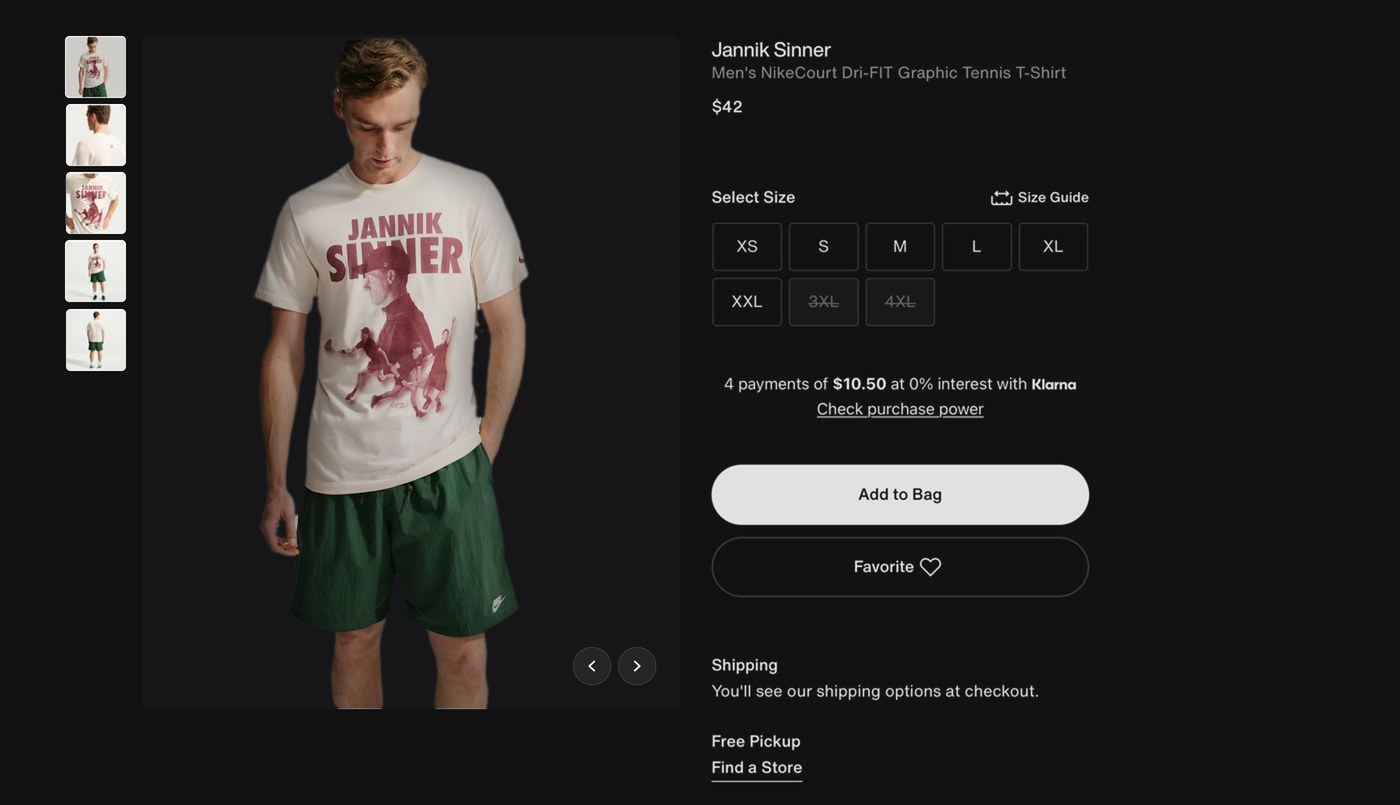
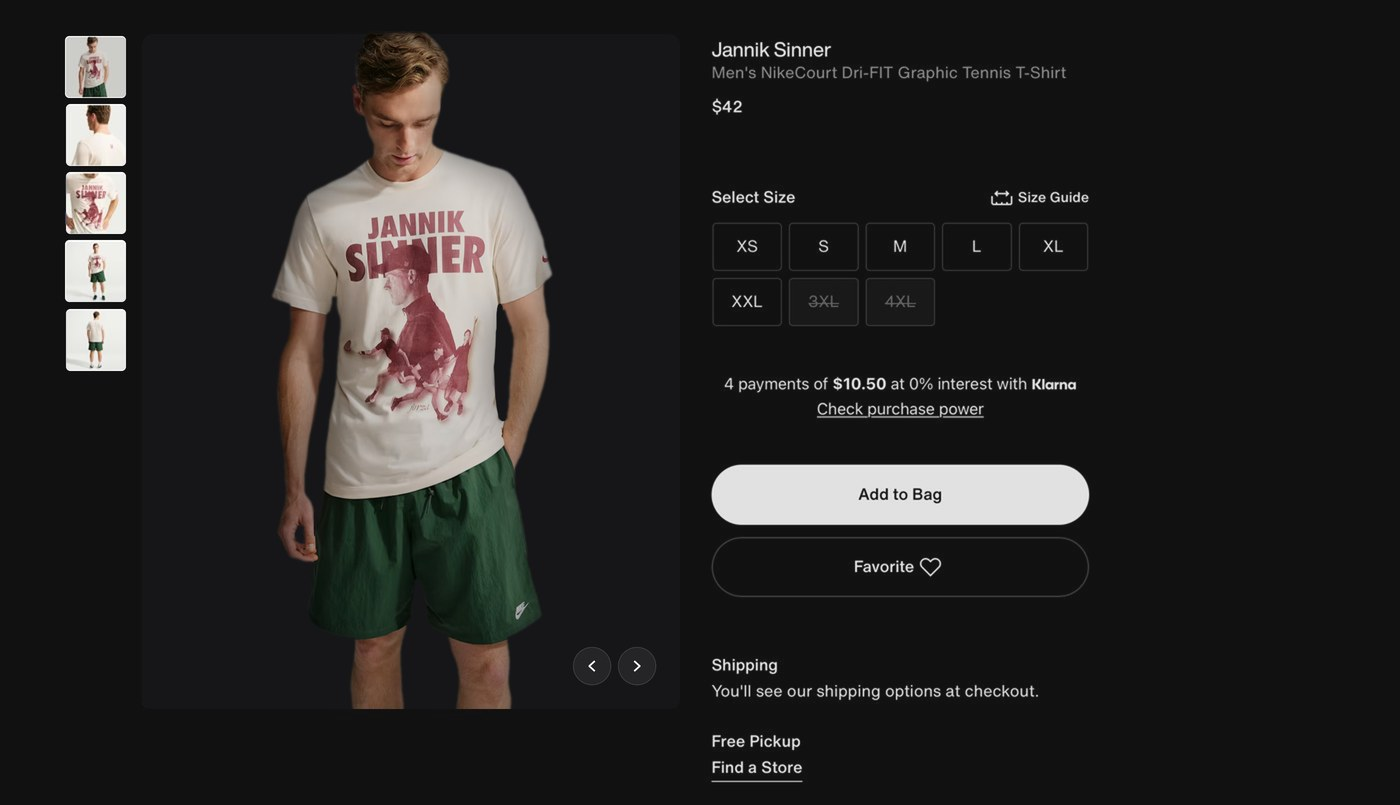
AI page: dark Nike product page from Christian's edited PhotoCraft file

Changed region(s): [[0.1843, 0.0311, 0.3993, 0.9006]]

diff --git a/ai/index.html b/ai/index.html
@@ -191,7 +191,7 @@
 </div></div></div><p class="ai-note ai-live">The Korean version, after a Champion Advocate&#x27;s fix went back to the agent. This is a copy of the Champions Hub, rebuilt from a screen recording, and the post is a made-up example.</p><nav class="hb-chapters" aria-label="Skip to a part of the demo"><button type="button" style="--p:0"><span class="hb-fill"></span><span class="hb-ch-t">Share a Post</span></button><button type="button" style="--p:0"><span class="hb-fill"></span><span class="hb-ch-t">Localize</span></button><button type="button" style="--p:0"><span class="hb-fill"></span><span class="hb-ch-t">Champion Fix</span></button><button type="button" style="--p:0"><span class="hb-fill"></span><span class="hb-ch-t">Send to LinkedIn</span></button><button type="button" style="--p:0"><span class="hb-fill"></span><span class="hb-ch-t">Whole Feed</span></button></nav><button class="ai-btn ai-toggle" type="button" aria-label="Pause animation"><svg viewBox="0 0 24 24" aria-hidden="true"><path class="i-pause" d="M9 6v12M15 6v12"/><path class="i-play" d="M8 5.5v13l11-6.5z"/></svg></button></div></figure>
 <section class="wrap prose ai-sec" id="geo"><p class="ai-step">5 · Optimize</p><h2>Written for Search Engines and AI Answers</h2>
 <p>People type keywords into Google and sometimes ask their AI full questions. GEO and AEO, generative and answer engine optimization, mean writing pages that work for both.</p>
-<p>In 2024, I organized QAD Redzone&#x27;s FAQs and blogs so search engines and AI answers could find them. At Nike I wrote alt text and product tags for both kinds of search: for someone who knows exactly what they want, and for someone who only knows roughly.</p></section><figure class="wrap ai-demo ai-geo" data-demo="geo" aria-label="Illustration: a Nike product and a QAD Redzone FAQ, each found by a keyword search and by an AI answer"><script type="application/json" class="ai-data">{"cases": [{"id": "nike", "label": "Nike", "source": "Nike.com product page: what both of them read", "cite": "From the product page", "search": "jannik sinner nike shirt", "ask": "What should I wear to play tennis on a hot day?", "thumbs": ["assets/ai/nike-thumb-1.jpg", "assets/ai/nike-thumb-2.jpg", "assets/ai/nike-thumb-3.jpg"], "results": ["Jannik Sinner Men's NikeCourt Dri-FIT Graphic Tennis T-Shirt", "NikeCourt Men's Dri-FIT Tennis Tops", "Men's Tennis Clothing"], "answer": "For heat, pick a light top that pulls sweat away from your skin. The Jannik Sinner Men's NikeCourt Dri-FIT Graphic Tennis T-Shirt is made for that.", "fields": [["Alt text", "Man wearing the Jannik Sinner NikeCourt Dri-FIT graphic tennis T-shirt in cream with a red print, front view, with green shorts"], ["Product tags", "tennis, men's, Dri-FIT, graphic tee, NikeCourt, Jannik Sinner, cream"], ["Written for", "Someone who knows the shirt, and someone who only roughly knows what they need"]], "page": "assets/ai/nike-pdp.jpg", "page_alt": "The Nike.com product page for the Jannik Sinner Men's NikeCourt Dri-FIT Graphic Tennis T-Shirt", "page_dark": "assets/ai/nike-pdp-dark.jpg"}, {"id": "redzone", "label": "QAD Redzone", "source": "QAD Redzone FAQ and blog: what both of them read", "cite": "From the FAQ", "platform": "Semrush, where I tracked it at QAD Redzone. The numbers are hidden.", "search": "OEE software manufacturing", "ask": "What is OEE, and how do frontline teams improve it?", "thumbs": ["guide", "team", "dash"], "results": ["What Is OEE? A Guide for Manufacturers", "How Frontline Teams Improve OEE", "QAD Redzone Production System"], "answer": "OEE, overall equipment effectiveness, is how much of a line's planned time is truly productive. Frontline teams improve it by tracking losses as they happen and fixing them shift by shift.", "fields": [["FAQ", "The question as the heading, a short answer first, then the detail"], ["Blog", "One question per post, answered in the first lines"], ["Written for", "Someone searching a keyword, and someone asking an AI a full question"]]}], "step": "5 · Optimize"}</script><div class="ai-stage"><div class="hb-views geo-switch" role="group" aria-label="Which example"><button type="button" data-case="0" aria-pressed="true">Nike</button><button type="button" data-case="1" aria-pressed="false">QAD Redzone</button></div><div class="geo-case geo-nike" data-case="0"><div class="geo-grid"><p class="geo-k">Keywords</p><p class="geo-k">A question</p><div class="ai-window geo-pane"><div class="ai-bar" aria-hidden="true"><span class="ai-dots"><i></i><i></i><i></i></span><span class="ai-title">Search engine</span></div><div class="geo-in geo-search"><svg viewBox="0 0 24 24" aria-hidden="true"><circle cx="10.5" cy="10.5" r="6"/><path d="M15 15l5 5"/></svg><span class="geo-typed" data-text="jannik sinner nike shirt">jannik sinner nike shirt</span></div><ul class="geo-results"><li><span class="geo-thumb" aria-hidden="true"><img src="../assets/ai/nike-thumb-1.jpg?v=4a2936bc" alt="" loading="lazy"></span>Jannik Sinner Men&#x27;s NikeCourt Dri-FIT Graphic Tennis T-Shirt</li><li><span class="geo-thumb" aria-hidden="true"><img src="../assets/ai/nike-thumb-2.jpg?v=48887214" alt="" loading="lazy"></span>NikeCourt Men&#x27;s Dri-FIT Tennis Tops</li><li><span class="geo-thumb" aria-hidden="true"><img src="../assets/ai/nike-thumb-3.jpg?v=e3c73d07" alt="" loading="lazy"></span>Men&#x27;s Tennis Clothing</li></ul></div><div class="ai-window geo-pane"><div class="ai-bar" aria-hidden="true"><span class="ai-dots"><i></i><i></i><i></i></span><span class="ai-title">AI assistant</span></div><div class="geo-in geo-ask"><span class="geo-typed" data-text="What should I wear to play tennis on a hot day?">What should I wear to play tennis on a hot day?</span></div><p class="geo-answer"><svg class="ai-spark" viewBox="0 0 24 24" aria-hidden="true"><path d="M12 3c.6 4.2 2.8 6.4 7 7-4.2.6-6.4 2.8-7 7-.6-4.2-2.8-6.4-7-7 4.2-.6 6.4-2.8 7-7Z"/></svg><span>For heat, pick a light top that pulls sweat away from your skin. The Jannik Sinner Men&#x27;s NikeCourt Dri-FIT Graphic Tennis T-Shirt is made for that.</span></p><p class="geo-cite">From the product page</p></div></div><div class="geo-src"><div class="ai-window"><div class="ai-bar" aria-hidden="true"><span class="ai-dots"><i></i><i></i><i></i></span><span class="ai-title">Nike.com product page: what both of them read</span></div><img class="geo-page" src="../assets/ai/nike-pdp.jpg?v=5dee6cad" alt="The Nike.com product page for the Jannik Sinner Men&#x27;s NikeCourt Dri-FIT Graphic Tennis T-Shirt" loading="lazy"><img class="geo-page geo-page-dark" src="../assets/ai/nike-pdp-dark.jpg?v=49414dcf" alt="The Nike.com product page for the Jannik Sinner Men&#x27;s NikeCourt Dri-FIT Graphic Tennis T-Shirt" loading="lazy"><ul class="geo-fields"><li><span class="ai-label">Alt text</span><span>Man wearing the Jannik Sinner NikeCourt Dri-FIT graphic tennis T-shirt in cream with a red print, front view, with green shorts</span></li><li><span class="ai-label">Product tags</span><span>tennis, men&#x27;s, Dri-FIT, graphic tee, NikeCourt, Jannik Sinner, cream</span></li><li><span class="ai-label">Written for</span><span>Someone who knows the shirt, and someone who only roughly knows what they need</span></li></ul></div></div></div><div class="geo-case geo-redzone" data-case="1" hidden><div class="geo-grid"><p class="geo-k">Keywords</p><p class="geo-k">A question</p><div class="ai-window geo-pane"><div class="ai-bar" aria-hidden="true"><span class="ai-dots"><i></i><i></i><i></i></span><span class="ai-title">Search engine</span></div><div class="geo-in geo-search"><svg viewBox="0 0 24 24" aria-hidden="true"><circle cx="10.5" cy="10.5" r="6"/><path d="M15 15l5 5"/></svg><span class="geo-typed" data-text="OEE software manufacturing">OEE software manufacturing</span></div><ul class="geo-results"><li><span class="geo-thumb" aria-hidden="true"><svg viewBox="0 0 24 24"><rect class="gt-fill" x="5.5" y="3" width="13" height="18" rx="2"/><path class="gt-line" d="M8.5 8h7M8.5 11.5h7M8.5 15h4.5"/></svg></span>What Is OEE? A Guide for Manufacturers</li><li><span class="geo-thumb" aria-hidden="true"><svg viewBox="0 0 24 24"><circle class="gt-fill" cx="8.5" cy="9" r="3"/><circle class="gt-fill" cx="15.8" cy="9.5" r="2.5"/><path class="gt-fill" d="M3 19c.4-3.2 2.7-5.3 5.5-5.3s5.1 2.1 5.5 5.3zM13.6 14.3c.7-.4 1.4-.6 2.2-.6 2.4 0 4.3 1.8 4.7 4.6h-5.4c-.2-1.6-.7-2.9-1.5-4z"/></svg></span>How Frontline Teams Improve OEE</li><li><span class="geo-thumb" aria-hidden="true"><svg viewBox="0 0 24 24"><rect class="gt-fill" x="3" y="4.5" width="18" height="15" rx="2.5"/><path class="gt-line" d="M6.5 15.5l3.2-3.6 2.8 2.2 4.8-5.6"/><path class="gt-line" d="M6.5 8h3"/></svg></span>QAD Redzone Production System</li></ul></div><div class="ai-window geo-pane"><div class="ai-bar" aria-hidden="true"><span class="ai-dots"><i></i><i></i><i></i></span><span class="ai-title">AI assistant</span></div><div class="geo-in geo-ask"><span class="geo-typed" data-text="What is OEE, and how do frontline teams improve it?">What is OEE, and how do frontline teams improve it?</span></div><p class="geo-answer"><svg class="ai-spark" viewBox="0 0 24 24" aria-hidden="true"><path d="M12 3c.6 4.2 2.8 6.4 7 7-4.2.6-6.4 2.8-7 7-.6-4.2-2.8-6.4-7-7 4.2-.6 6.4-2.8 7-7Z"/></svg><span>OEE, overall equipment effectiveness, is how much of a line&#x27;s planned time is truly productive. Frontline teams improve it by tracking losses as they happen and fixing them shift by shift.</span></p><p class="geo-cite">From the FAQ</p></div></div><div class="geo-src"><div class="ai-window"><div class="ai-bar" aria-hidden="true"><span class="ai-dots"><i></i><i></i><i></i></span><span class="ai-title">QAD Redzone FAQ and blog: what both of them read</span></div><ul class="geo-fields"><li><span class="ai-label">FAQ</span><span>The question as the heading, a short answer first, then the detail</span></li><li><span class="ai-label">Blog</span><span>One question per post, answered in the first lines</span></li><li><span class="ai-label">Written for</span><span>Someone searching a keyword, and someone asking an AI a full question</span></li></ul></div></div><div class="geo-sr"><div class="ai-window sr-window"><div class="ai-bar" aria-hidden="true"><span class="ai-dots"><i></i><i></i><i></i></span><span class="ai-title">Semrush  ·  SEO Dashboard: QAD Redzone</span></div><div class="sr-grid"><section class="sr-box"><p class="sr-tab sr-tab-ai">AI Search</p><div class="sr-tot"><p><span>AI Visibility</span><span class="sr-gauge"></span><b class="sr-v" aria-hidden="true"></b></p><p><span>Mentions</span><b class="sr-v" aria-hidden="true"></b></p><p><span>Cited pages</span><b class="sr-v" aria-hidden="true"></b></p></div><ul class="sr-ai"><li><span class="sr-src sr-g"></span>AI Overview<b class="sr-v" aria-hidden="true"></b><b class="sr-v" aria-hidden="true"></b></li><li><span class="sr-src sr-g"></span>AI Mode<b class="sr-v" aria-hidden="true"></b><b class="sr-v" aria-hidden="true"></b></li><li><span class="sr-src sr-gpt"></span>ChatGPT<b class="sr-v" aria-hidden="true"></b><b class="sr-v" aria-hidden="true"></b></li><li><span class="sr-src sr-gem"></span>Gemini<i class="sr-soon">soon</i></li></ul><p class="sr-h sr-cited-h">Top cited pages</p><ul class="sr-cited"><li><span class="sr-kind">FAQ</span><span class="sr-url">/faq/what-is-oee</span><b class="sr-v" aria-hidden="true"></b></li><li><span class="sr-kind">Blog</span><span class="sr-url">/blog/how-frontline-teams-improve-oee</span><b class="sr-v" aria-hidden="true"></b></li></ul></section><section class="sr-box"><p class="sr-tab sr-tab-seo">SEO</p><ul class="sr-seo"><li><span>Authority Score</span><b class="sr-v" aria-hidden="true"></b></li><li><span>Organic Traffic</span><b class="sr-v" aria-hidden="true"></b></li><li><span>Organic Keywords</span><b class="sr-v" aria-hidden="true"></b></li><li><span>Ref. Domains</span><b class="sr-v" aria-hidden="true"></b></li></ul></section><section class="sr-box sr-wide"><p class="sr-tab sr-tab-pt">Position Tracking</p><div class="sr-pt"><div class="sr-vis"><p class="sr-h">Visibility</p><b class="sr-v" aria-hidden="true"></b><svg class="sr-area" viewBox="0 0 200 80" preserveAspectRatio="none" aria-hidden="true"><path d="M0 34 L14 22 L28 36 L44 20 L60 26 L74 16 L88 30 L102 24 L116 38 L130 30 L146 44 L160 36 L176 48 L200 46 V80 H0Z"/></svg></div><div><p class="sr-h">Keywords</p><ul class="sr-tops"><li><span>Top 3</span><span class="sr-ring"></span><b class="sr-v" aria-hidden="true"></b><svg class="sr-spark" viewBox="0 0 100 20" preserveAspectRatio="none" aria-hidden="true"><path d="M0 14 L12 12 L20 15 L30 8 L40 11 L52 6 L62 10 L74 5 L86 9 L100 7"/></svg></li><li><span>Top 10</span><span class="sr-ring"></span><b class="sr-v" aria-hidden="true"></b><svg class="sr-spark" viewBox="0 0 100 20" preserveAspectRatio="none" aria-hidden="true"><path d="M0 14 L12 12 L20 15 L30 8 L40 11 L52 6 L62 10 L74 5 L86 9 L100 7"/></svg></li><li><span>Top 20</span><span class="sr-ring"></span><b class="sr-v" aria-hidden="true"></b><svg class="sr-spark" viewBox="0 0 100 20" preserveAspectRatio="none" aria-hidden="true"><path d="M0 14 L12 12 L20 15 L30 8 L40 11 L52 6 L62 10 L74 5 L86 9 L100 7"/></svg></li><li><span>Top 100</span><span class="sr-ring"></span><b class="sr-v" aria-hidden="true"></b><svg class="sr-spark" viewBox="0 0 100 20" preserveAspectRatio="none" aria-hidden="true"><path d="M0 14 L12 12 L20 15 L30 8 L40 11 L52 6 L62 10 L74 5 L86 9 L100 7"/></svg></li></ul></div><div><p class="sr-h">Top Keywords</p><p class="sr-kh"><span>Keywords</span><span></span><span>Position</span><span>Visibility</span></p><ul class="sr-kw"><li><span>oee software</span><i class="sr-tag sr-tag-keyword">Keyword</i><b class="sr-v" aria-hidden="true"></b><b class="sr-v" aria-hidden="true"></b></li><li><span>what is oee</span><i class="sr-tag sr-tag-question">Question</i><b class="sr-v" aria-hidden="true"></b><b class="sr-v" aria-hidden="true"></b></li><li><span>how to improve oee</span><i class="sr-tag sr-tag-question">Question</i><b class="sr-v" aria-hidden="true"></b><b class="sr-v" aria-hidden="true"></b></li><li><span>manufacturing downtime</span><i class="sr-tag sr-tag-keyword">Keyword</i><b class="sr-v" aria-hidden="true"></b><b class="sr-v" aria-hidden="true"></b></li><li><span>frontline production</span><i class="sr-tag sr-tag-keyword">Keyword</i><b class="sr-v" aria-hidden="true"></b><b class="sr-v" aria-hidden="true"></b></li></ul></div></div></section></div></div><p class="geo-k sr-note">Semrush, where I tracked it at QAD Redzone. The numbers are hidden.</p></div></div><button class="ai-btn ai-toggle" type="button" aria-label="Pause animation"><svg viewBox="0 0 24 24" aria-hidden="true"><path class="i-pause" d="M9 6v12M15 6v12"/><path class="i-play" d="M8 5.5v13l11-6.5z"/></svg></button></div><figcaption class="ai-note">The Nike product page is real; the searches, questions and wording are examples.</figcaption></figure>
+<p>In 2024, I organized QAD Redzone&#x27;s FAQs and blogs so search engines and AI answers could find them. At Nike I wrote alt text and product tags for both kinds of search: for someone who knows exactly what they want, and for someone who only knows roughly.</p></section><figure class="wrap ai-demo ai-geo" data-demo="geo" aria-label="Illustration: a Nike product and a QAD Redzone FAQ, each found by a keyword search and by an AI answer"><script type="application/json" class="ai-data">{"cases": [{"id": "nike", "label": "Nike", "source": "Nike.com product page: what both of them read", "cite": "From the product page", "search": "jannik sinner nike shirt", "ask": "What should I wear to play tennis on a hot day?", "thumbs": ["assets/ai/nike-thumb-1.jpg", "assets/ai/nike-thumb-2.jpg", "assets/ai/nike-thumb-3.jpg"], "results": ["Jannik Sinner Men's NikeCourt Dri-FIT Graphic Tennis T-Shirt", "NikeCourt Men's Dri-FIT Tennis Tops", "Men's Tennis Clothing"], "answer": "For heat, pick a light top that pulls sweat away from your skin. The Jannik Sinner Men's NikeCourt Dri-FIT Graphic Tennis T-Shirt is made for that.", "fields": [["Alt text", "Man wearing the Jannik Sinner NikeCourt Dri-FIT graphic tennis T-shirt in cream with a red print, front view, with green shorts"], ["Product tags", "tennis, men's, Dri-FIT, graphic tee, NikeCourt, Jannik Sinner, cream"], ["Written for", "Someone who knows the shirt, and someone who only roughly knows what they need"]], "page": "assets/ai/nike-pdp.jpg", "page_alt": "The Nike.com product page for the Jannik Sinner Men's NikeCourt Dri-FIT Graphic Tennis T-Shirt", "page_dark": "assets/ai/nike-pdp-dark.jpg"}, {"id": "redzone", "label": "QAD Redzone", "source": "QAD Redzone FAQ and blog: what both of them read", "cite": "From the FAQ", "platform": "Semrush, where I tracked it at QAD Redzone. The numbers are hidden.", "search": "OEE software manufacturing", "ask": "What is OEE, and how do frontline teams improve it?", "thumbs": ["guide", "team", "dash"], "results": ["What Is OEE? A Guide for Manufacturers", "How Frontline Teams Improve OEE", "QAD Redzone Production System"], "answer": "OEE, overall equipment effectiveness, is how much of a line's planned time is truly productive. Frontline teams improve it by tracking losses as they happen and fixing them shift by shift.", "fields": [["FAQ", "The question as the heading, a short answer first, then the detail"], ["Blog", "One question per post, answered in the first lines"], ["Written for", "Someone searching a keyword, and someone asking an AI a full question"]]}], "step": "5 · Optimize"}</script><div class="ai-stage"><div class="hb-views geo-switch" role="group" aria-label="Which example"><button type="button" data-case="0" aria-pressed="true">Nike</button><button type="button" data-case="1" aria-pressed="false">QAD Redzone</button></div><div class="geo-case geo-nike" data-case="0"><div class="geo-grid"><p class="geo-k">Keywords</p><p class="geo-k">A question</p><div class="ai-window geo-pane"><div class="ai-bar" aria-hidden="true"><span class="ai-dots"><i></i><i></i><i></i></span><span class="ai-title">Search engine</span></div><div class="geo-in geo-search"><svg viewBox="0 0 24 24" aria-hidden="true"><circle cx="10.5" cy="10.5" r="6"/><path d="M15 15l5 5"/></svg><span class="geo-typed" data-text="jannik sinner nike shirt">jannik sinner nike shirt</span></div><ul class="geo-results"><li><span class="geo-thumb" aria-hidden="true"><img src="../assets/ai/nike-thumb-1.jpg?v=4a2936bc" alt="" loading="lazy"></span>Jannik Sinner Men&#x27;s NikeCourt Dri-FIT Graphic Tennis T-Shirt</li><li><span class="geo-thumb" aria-hidden="true"><img src="../assets/ai/nike-thumb-2.jpg?v=48887214" alt="" loading="lazy"></span>NikeCourt Men&#x27;s Dri-FIT Tennis Tops</li><li><span class="geo-thumb" aria-hidden="true"><img src="../assets/ai/nike-thumb-3.jpg?v=e3c73d07" alt="" loading="lazy"></span>Men&#x27;s Tennis Clothing</li></ul></div><div class="ai-window geo-pane"><div class="ai-bar" aria-hidden="true"><span class="ai-dots"><i></i><i></i><i></i></span><span class="ai-title">AI assistant</span></div><div class="geo-in geo-ask"><span class="geo-typed" data-text="What should I wear to play tennis on a hot day?">What should I wear to play tennis on a hot day?</span></div><p class="geo-answer"><svg class="ai-spark" viewBox="0 0 24 24" aria-hidden="true"><path d="M12 3c.6 4.2 2.8 6.4 7 7-4.2.6-6.4 2.8-7 7-.6-4.2-2.8-6.4-7-7 4.2-.6 6.4-2.8 7-7Z"/></svg><span>For heat, pick a light top that pulls sweat away from your skin. The Jannik Sinner Men&#x27;s NikeCourt Dri-FIT Graphic Tennis T-Shirt is made for that.</span></p><p class="geo-cite">From the product page</p></div></div><div class="geo-src"><div class="ai-window"><div class="ai-bar" aria-hidden="true"><span class="ai-dots"><i></i><i></i><i></i></span><span class="ai-title">Nike.com product page: what both of them read</span></div><img class="geo-page" src="../assets/ai/nike-pdp.jpg?v=5dee6cad" alt="The Nike.com product page for the Jannik Sinner Men&#x27;s NikeCourt Dri-FIT Graphic Tennis T-Shirt" loading="lazy"><img class="geo-page geo-page-dark" src="../assets/ai/nike-pdp-dark.jpg?v=be933140" alt="The Nike.com product page for the Jannik Sinner Men&#x27;s NikeCourt Dri-FIT Graphic Tennis T-Shirt" loading="lazy"><ul class="geo-fields"><li><span class="ai-label">Alt text</span><span>Man wearing the Jannik Sinner NikeCourt Dri-FIT graphic tennis T-shirt in cream with a red print, front view, with green shorts</span></li><li><span class="ai-label">Product tags</span><span>tennis, men&#x27;s, Dri-FIT, graphic tee, NikeCourt, Jannik Sinner, cream</span></li><li><span class="ai-label">Written for</span><span>Someone who knows the shirt, and someone who only roughly knows what they need</span></li></ul></div></div></div><div class="geo-case geo-redzone" data-case="1" hidden><div class="geo-grid"><p class="geo-k">Keywords</p><p class="geo-k">A question</p><div class="ai-window geo-pane"><div class="ai-bar" aria-hidden="true"><span class="ai-dots"><i></i><i></i><i></i></span><span class="ai-title">Search engine</span></div><div class="geo-in geo-search"><svg viewBox="0 0 24 24" aria-hidden="true"><circle cx="10.5" cy="10.5" r="6"/><path d="M15 15l5 5"/></svg><span class="geo-typed" data-text="OEE software manufacturing">OEE software manufacturing</span></div><ul class="geo-results"><li><span class="geo-thumb" aria-hidden="true"><svg viewBox="0 0 24 24"><rect class="gt-fill" x="5.5" y="3" width="13" height="18" rx="2"/><path class="gt-line" d="M8.5 8h7M8.5 11.5h7M8.5 15h4.5"/></svg></span>What Is OEE? A Guide for Manufacturers</li><li><span class="geo-thumb" aria-hidden="true"><svg viewBox="0 0 24 24"><circle class="gt-fill" cx="8.5" cy="9" r="3"/><circle class="gt-fill" cx="15.8" cy="9.5" r="2.5"/><path class="gt-fill" d="M3 19c.4-3.2 2.7-5.3 5.5-5.3s5.1 2.1 5.5 5.3zM13.6 14.3c.7-.4 1.4-.6 2.2-.6 2.4 0 4.3 1.8 4.7 4.6h-5.4c-.2-1.6-.7-2.9-1.5-4z"/></svg></span>How Frontline Teams Improve OEE</li><li><span class="geo-thumb" aria-hidden="true"><svg viewBox="0 0 24 24"><rect class="gt-fill" x="3" y="4.5" width="18" height="15" rx="2.5"/><path class="gt-line" d="M6.5 15.5l3.2-3.6 2.8 2.2 4.8-5.6"/><path class="gt-line" d="M6.5 8h3"/></svg></span>QAD Redzone Production System</li></ul></div><div class="ai-window geo-pane"><div class="ai-bar" aria-hidden="true"><span class="ai-dots"><i></i><i></i><i></i></span><span class="ai-title">AI assistant</span></div><div class="geo-in geo-ask"><span class="geo-typed" data-text="What is OEE, and how do frontline teams improve it?">What is OEE, and how do frontline teams improve it?</span></div><p class="geo-answer"><svg class="ai-spark" viewBox="0 0 24 24" aria-hidden="true"><path d="M12 3c.6 4.2 2.8 6.4 7 7-4.2.6-6.4 2.8-7 7-.6-4.2-2.8-6.4-7-7 4.2-.6 6.4-2.8 7-7Z"/></svg><span>OEE, overall equipment effectiveness, is how much of a line&#x27;s planned time is truly productive. Frontline teams improve it by tracking losses as they happen and fixing them shift by shift.</span></p><p class="geo-cite">From the FAQ</p></div></div><div class="geo-src"><div class="ai-window"><div class="ai-bar" aria-hidden="true"><span class="ai-dots"><i></i><i></i><i></i></span><span class="ai-title">QAD Redzone FAQ and blog: what both of them read</span></div><ul class="geo-fields"><li><span class="ai-label">FAQ</span><span>The question as the heading, a short answer first, then the detail</span></li><li><span class="ai-label">Blog</span><span>One question per post, answered in the first lines</span></li><li><span class="ai-label">Written for</span><span>Someone searching a keyword, and someone asking an AI a full question</span></li></ul></div></div><div class="geo-sr"><div class="ai-window sr-window"><div class="ai-bar" aria-hidden="true"><span class="ai-dots"><i></i><i></i><i></i></span><span class="ai-title">Semrush  ·  SEO Dashboard: QAD Redzone</span></div><div class="sr-grid"><section class="sr-box"><p class="sr-tab sr-tab-ai">AI Search</p><div class="sr-tot"><p><span>AI Visibility</span><span class="sr-gauge"></span><b class="sr-v" aria-hidden="true"></b></p><p><span>Mentions</span><b class="sr-v" aria-hidden="true"></b></p><p><span>Cited pages</span><b class="sr-v" aria-hidden="true"></b></p></div><ul class="sr-ai"><li><span class="sr-src sr-g"></span>AI Overview<b class="sr-v" aria-hidden="true"></b><b class="sr-v" aria-hidden="true"></b></li><li><span class="sr-src sr-g"></span>AI Mode<b class="sr-v" aria-hidden="true"></b><b class="sr-v" aria-hidden="true"></b></li><li><span class="sr-src sr-gpt"></span>ChatGPT<b class="sr-v" aria-hidden="true"></b><b class="sr-v" aria-hidden="true"></b></li><li><span class="sr-src sr-gem"></span>Gemini<i class="sr-soon">soon</i></li></ul><p class="sr-h sr-cited-h">Top cited pages</p><ul class="sr-cited"><li><span class="sr-kind">FAQ</span><span class="sr-url">/faq/what-is-oee</span><b class="sr-v" aria-hidden="true"></b></li><li><span class="sr-kind">Blog</span><span class="sr-url">/blog/how-frontline-teams-improve-oee</span><b class="sr-v" aria-hidden="true"></b></li></ul></section><section class="sr-box"><p class="sr-tab sr-tab-seo">SEO</p><ul class="sr-seo"><li><span>Authority Score</span><b class="sr-v" aria-hidden="true"></b></li><li><span>Organic Traffic</span><b class="sr-v" aria-hidden="true"></b></li><li><span>Organic Keywords</span><b class="sr-v" aria-hidden="true"></b></li><li><span>Ref. Domains</span><b class="sr-v" aria-hidden="true"></b></li></ul></section><section class="sr-box sr-wide"><p class="sr-tab sr-tab-pt">Position Tracking</p><div class="sr-pt"><div class="sr-vis"><p class="sr-h">Visibility</p><b class="sr-v" aria-hidden="true"></b><svg class="sr-area" viewBox="0 0 200 80" preserveAspectRatio="none" aria-hidden="true"><path d="M0 34 L14 22 L28 36 L44 20 L60 26 L74 16 L88 30 L102 24 L116 38 L130 30 L146 44 L160 36 L176 48 L200 46 V80 H0Z"/></svg></div><div><p class="sr-h">Keywords</p><ul class="sr-tops"><li><span>Top 3</span><span class="sr-ring"></span><b class="sr-v" aria-hidden="true"></b><svg class="sr-spark" viewBox="0 0 100 20" preserveAspectRatio="none" aria-hidden="true"><path d="M0 14 L12 12 L20 15 L30 8 L40 11 L52 6 L62 10 L74 5 L86 9 L100 7"/></svg></li><li><span>Top 10</span><span class="sr-ring"></span><b class="sr-v" aria-hidden="true"></b><svg class="sr-spark" viewBox="0 0 100 20" preserveAspectRatio="none" aria-hidden="true"><path d="M0 14 L12 12 L20 15 L30 8 L40 11 L52 6 L62 10 L74 5 L86 9 L100 7"/></svg></li><li><span>Top 20</span><span class="sr-ring"></span><b class="sr-v" aria-hidden="true"></b><svg class="sr-spark" viewBox="0 0 100 20" preserveAspectRatio="none" aria-hidden="true"><path d="M0 14 L12 12 L20 15 L30 8 L40 11 L52 6 L62 10 L74 5 L86 9 L100 7"/></svg></li><li><span>Top 100</span><span class="sr-ring"></span><b class="sr-v" aria-hidden="true"></b><svg class="sr-spark" viewBox="0 0 100 20" preserveAspectRatio="none" aria-hidden="true"><path d="M0 14 L12 12 L20 15 L30 8 L40 11 L52 6 L62 10 L74 5 L86 9 L100 7"/></svg></li></ul></div><div><p class="sr-h">Top Keywords</p><p class="sr-kh"><span>Keywords</span><span></span><span>Position</span><span>Visibility</span></p><ul class="sr-kw"><li><span>oee software</span><i class="sr-tag sr-tag-keyword">Keyword</i><b class="sr-v" aria-hidden="true"></b><b class="sr-v" aria-hidden="true"></b></li><li><span>what is oee</span><i class="sr-tag sr-tag-question">Question</i><b class="sr-v" aria-hidden="true"></b><b class="sr-v" aria-hidden="true"></b></li><li><span>how to improve oee</span><i class="sr-tag sr-tag-question">Question</i><b class="sr-v" aria-hidden="true"></b><b class="sr-v" aria-hidden="true"></b></li><li><span>manufacturing downtime</span><i class="sr-tag sr-tag-keyword">Keyword</i><b class="sr-v" aria-hidden="true"></b><b class="sr-v" aria-hidden="true"></b></li><li><span>frontline production</span><i class="sr-tag sr-tag-keyword">Keyword</i><b class="sr-v" aria-hidden="true"></b><b class="sr-v" aria-hidden="true"></b></li></ul></div></div></section></div></div><p class="geo-k sr-note">Semrush, where I tracked it at QAD Redzone. The numbers are hidden.</p></div></div><button class="ai-btn ai-toggle" type="button" aria-label="Pause animation"><svg viewBox="0 0 24 24" aria-hidden="true"><path class="i-pause" d="M9 6v12M15 6v12"/><path class="i-play" d="M8 5.5v13l11-6.5z"/></svg></button></div><figcaption class="ai-note">The Nike product page is real; the searches, questions and wording are examples.</figcaption></figure>
 <section class="wrap prose ai-sec" id="tools"><h2>Tools I Built With Claude Code and Codex</h2>
 <p>In the evenings I build my own apps with Claude Code and Codex. I tell them what I want in plain English, then test each build and decide how it should look and behave. I use all of these every day.</p></section><div class="wrap ai-demo ai-tools" data-demo="tools"><ul class="tl-grid"><li class="tl-card"><div class="tl-screen"><img src="../assets/ai/heardhum.jpg?v=c509aaef" alt="heardhum" loading="lazy"></div><div class="tl-body"><h3>heardhum</h3><p>A Mac menu bar app that records calls and saves timed transcripts with speaker labels, all on your Mac.</p><a class="tl-cta" href="https://github.com/chrishtean/heardhum/releases/latest" target="_blank" rel="noopener">Download for Mac</a></div></li><li class="tl-card"><div class="tl-screen"><video class="tl-video" src="../assets/ai/budget-ai.mp4?v=f8a1a163" poster="../assets/ai/budget-ai.jpg?v=6a4bee27" muted loop playsinline preload="none" aria-label="Budget AI, a short tour of its screens"></video></div><div class="tl-body"><h3>Budget AI</h3><p>A budgeting app that runs on your own computer, with a review inbox, budgets that understand bills, and a Home Screen widget.</p><span class="tl-cta is-soon">Coming soon</span></div></li><li class="tl-card"><div class="tl-screen is-empty"><span class="tl-icon"><img src="../assets/ai/job-search-ai.png?v=37e7873e" alt="" loading="lazy"></span><span class="tl-soon-n">Screen recording coming soon</span></div><div class="tl-body"><h3>Job Search AI</h3><p>A job search system that runs in your own Claude: it finds roles that fit, tailors a resume and cover letter for each, and tracks every application.</p><span class="tl-cta is-soon">Coming soon</span></div></li><li class="tl-card"><div class="tl-screen"><video class="tl-video" src="../assets/ai/markup-ai.mp4?v=4659d48b" poster="../assets/ai/markup-ai.jpg?v=5a0bfd7c" muted loop playsinline preload="none" aria-label="Markup AI, a short tour of its screens"></video></div><div class="tl-body"><h3>Markup AI</h3><p>Comment threads on top of any app, answered by Claude. I mark up a design, and the change comes back in place.</p><span class="tl-cta is-soon">Coming soon</span></div></li></ul></div>
 <section class="wrap prose ai-sec" id="site"><h2>This Site, Directed With Claude Code</h2>
